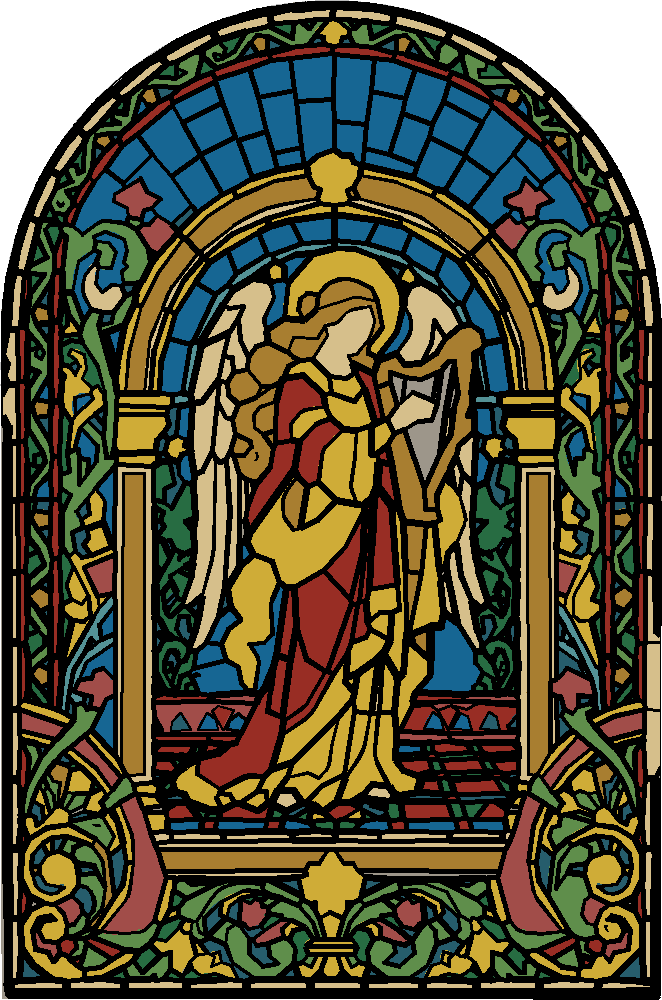
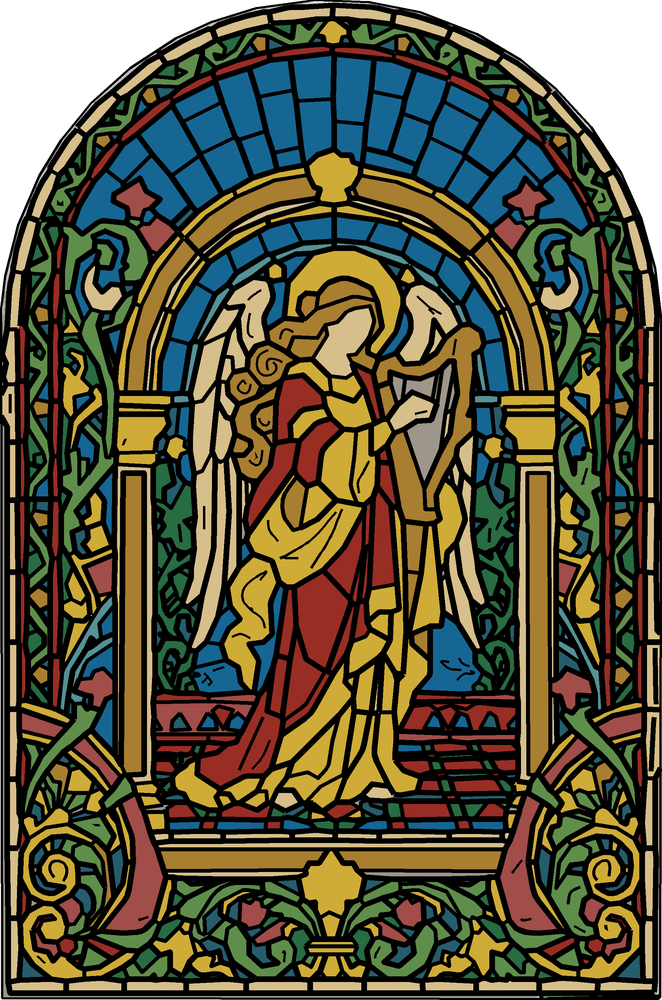
Anti-aliased preview, Chinese README (读我.md), refresh sample previews
- write_preview_png now rasterizes the fragment + leading SVGs at 3x
  supersample and LANCZOS-downscales, so pane/leading edges are smooth.
- Add 读我.md (Simplified Chinese translation) with language switcher.
- Regenerate docs/ preview images with the anti-aliased renderer.

diff --git a/png_to_stained_glass_svg.py b/png_to_stained_glass_svg.py
@@ -28,12 +28,13 @@ Usage:
 import argparse
 import glob
 import os
+import re
 import sys
 
 # --- Third-party dependencies (guarded for a clear error message) ----------
 try:
     import numpy as np
-    from PIL import Image
+    from PIL import Image, ImageDraw
     import cv2
     from scipy import ndimage
     from scipy.cluster.vq import kmeans2
@@ -2222,20 +2223,110 @@ def rasterize_fitted_leading(polys, shape, simplify_tol, fit_tol):
     return mask > 0
 
 
-def write_preview_png(frag_rgb, labels, lead_polys, path):
-    """Write a 'what-you-print' preview: glass panes with black leading on top.
+def _parse_svg_subpaths(d):
+    """Parse an SVG path 'd' into subpaths as point lists, flattening cubics."""
+    toks = re.findall(r"[MLCZmlcz]|-?\d+\.?\d*(?:e-?\d+)?", d)
+    i, cur, start, subs, pts = 0, None, None, [], []
 
-    Uses the vectorised leading polygons (matching the leading SVG) so the
-    preview faithfully shows the final result once the black is added.
+    def flush():
+        if len(pts) >= 2:
+            subs.append(list(pts))
+        pts.clear()
+
+    while i < len(toks):
+        t = toks[i]
+        if t in "Mm":
+            flush()
+            cur = (float(toks[i + 1]), float(toks[i + 2])); i += 3
+            start = cur; pts.append(cur)
+        elif t in "Ll":
+            cur = (float(toks[i + 1]), float(toks[i + 2])); i += 3
+            pts.append(cur)
+        elif t in "Cc":
+            p0 = cur
+            c1 = (float(toks[i + 1]), float(toks[i + 2]))
+            c2 = (float(toks[i + 3]), float(toks[i + 4]))
+            p3 = (float(toks[i + 5]), float(toks[i + 6])); i += 7
+            for k in range(1, 9):
+                u = k / 8.0; v = 1 - u
+                pts.append((
+                    v**3 * p0[0] + 3*v*v*u*c1[0] + 3*v*u*u*c2[0] + u**3*p3[0],
+                    v**3 * p0[1] + 3*v*v*u*c1[1] + 3*v*u*u*c2[1] + u**3*p3[1]))
+            cur = p3
+        elif t in "Zz":
+            if start:
+                pts.append(start)
+            i += 1
+        else:
+            i += 1
+    flush()
+    return subs
+
+
+def write_preview_png(frag_svg, lead_svg, px_mm, path, ss=3):
+    """Anti-aliased 'what-you-print' preview.
+
+    Rasterizes the FRAGMENT and LEADING SVGs (the actual vector output) at
+    ``ss``x supersample and box-downscales with LANCZOS, so pane and leading
+    edges are smooth -- matching what a system SVG renderer shows, instead of
+    the hard pixel edges of a label-map render.
     """
-    h, w = labels.shape
-    rgb = frag_rgb.copy()
-    if lead_polys:
-        rgb[rasterize_polys(lead_polys, (h, w))] = (0, 0, 0)
-    out = np.zeros((h, w, 4), dtype=np.uint8)
-    out[:, :, :3] = rgb
-    out[:, :, 3] = np.where(labels > 0, 255, 0).astype(np.uint8)
-    Image.fromarray(out, mode="RGBA").save(path)
+    def attr(tag, name):
+        m = re.search(r'%s="([^"]*)"' % name, tag)
+        return m.group(1) if m else None
+
+    def hexrgb(s):
+        s = s.lstrip("#")
+        return (int(s[0:2], 16), int(s[2:4], 16), int(s[4:6], 16))
+
+    m = re.search(r'viewBox="0 0 ([\d.]+) ([\d.]+)"', frag_svg)
+    w_mm, h_mm = float(m.group(1)), float(m.group(2))
+    s = ss / px_mm                                    # mm -> supersampled px
+    W, H = max(1, int(round(w_mm * s))), max(1, int(round(h_mm * s)))
+    img = Image.new("RGBA", (W, H), (0, 0, 0, 0))
+    drw = ImageDraw.Draw(img)
+
+    def sc(sub):
+        return [(x * s, y * s) for x, y in sub]
+
+    # 1) glass faces (skip the corner registration squares = black fills).
+    for tag in re.findall(r"<path\b[^>]*>", frag_svg):
+        fill = attr(tag, "fill")
+        d = attr(tag, "d")
+        if not d or not fill or fill in ("none", "#000000"):
+            continue
+        col = hexrgb(fill) + (255,)
+        for sub in _parse_svg_subpaths(d):
+            poly = sc(sub)
+            if len(poly) >= 3:
+                drw.polygon(poly, fill=col)
+
+    # 2) black leading on top (strokes at their width; filled blobs; skip the
+    #    tiny <=1.3mm registration squares).
+    for tag in re.findall(r"<path\b[^>]*>", lead_svg):
+        d = attr(tag, "d")
+        if not d:
+            continue
+        subs = _parse_svg_subpaths(d)
+        sw = attr(tag, "stroke-width")
+        if sw:
+            wpx = max(1, int(round(float(sw) * s)))
+            for sub in subs:
+                poly = sc(sub)
+                if len(poly) >= 2:
+                    drw.line(poly, fill=(0, 0, 0, 255), width=wpx,
+                             joint="curve")
+        elif (attr(tag, "fill") or "") == "#000000":
+            xs = [x for sub in subs for x, y in sub]
+            ys = [y for sub in subs for x, y in sub]
+            if xs and (max(xs) - min(xs) <= 1.3 and max(ys) - min(ys) <= 1.3):
+                continue                              # registration mark
+            for sub in subs:
+                poly = sc(sub)
+                if len(poly) >= 3:
+                    drw.polygon(poly, fill=(0, 0, 0, 255))
+
+    img.resize((max(1, W // ss), max(1, H // ss)), Image.LANCZOS).save(path)
 
 
 # ===========================================================================
@@ -2685,8 +2776,9 @@ def main(args=None):
         frag_svg_path = opts.fragments_svg or _in_dir("_fragments.svg")
         colored = fragments_to_colored_paths(frag_rgb, labels, arcs, clip_poly,
                                              opts.px_mm)
+        frag_svg = write_multicolor_svg(colored, width_mm, height_mm)
         with open(frag_svg_path, "w") as f:
-            f.write(write_multicolor_svg(colored, width_mm, height_mm))
+            f.write(frag_svg)
         log("wrote %s (%d vector panes)" % (frag_svg_path, len(colored)))
 
         # Per-colour fragment SVGs: one file per glass colour (the 3D-printer
@@ -2708,7 +2800,7 @@ def main(args=None):
 
         if opts.preview:
             prev_path = opts.preview_png or _in_dir("_preview.png")
-            write_preview_png(frag_rgb, labels, lead_polys, prev_path)
+            write_preview_png(frag_svg, lead_svg, opts.px_mm, prev_path)
             log("wrote %s" % prev_path)
 
     except AbortError as exc:

diff --git a/读我.md b/读我.md
@@ -1,0 +1,216 @@
+# PNG → 彩色玻璃 SVG
+
+[English](README.md) | **简体中文**
+
+将栅格图像（PNG 或 JPEG）转换为可直接打印的矢量文件，用于 **3D 打印彩色玻璃（教堂花窗）**
+的工作流：包含轮廓、黑色铅条（came）线，以及平涂着色的玻璃碎片——每种玻璃颜色一个文件，
+外加一个黑色铅条图层。
+
+输出刻意采用 **每块玻璃平涂着色**（无渐变）：熔丝 3D 打印机无法还原照片级细节，
+因此图像被分割成由黑色铅条勾边的纯色玻璃块，正如真实的彩色玻璃一样。
+
+## 示例
+
+由 `python3 png_to_stained_glass_svg.py <输入>.png --preview` 生成。
+点击图片可查看原始分辨率。
+
+### 示例 1
+
+<p align="center">
+  <img src="sample1.png" width="400" hspace="16">
+  <img src="docs/sample1_result.png" width="400" hspace="16">
+</p>
+
+### 示例 2
+
+<p align="center">
+  <img src="sample2.png" width="400" hspace="16">
+  <img src="docs/sample2_result.png" width="400" hspace="16">
+</p>
+
+---
+
+## 输出内容
+
+所有文件都会放进一个文件夹 `<输入>_fragments/`（可用 `--fragments-dir` 覆盖）：
+
+| 文件 | 说明 |
+|------|------|
+| `<名称>_silhouette.svg` | 作品的外轮廓（含内部孔洞），单条奇偶填充路径。 |
+| `<名称>_leading.svg`    | 黑色铅条线——按真实毫米宽度描边。作为 **黑色图层** 打印。 |
+| `<名称>_fragments.svg`  | 所有玻璃块合成的一个多色 SVG（精确平面剖分）。 |
+| `color_NN_<hex>.svg`    | **每种玻璃颜色一个 SVG**——各自是一个打印图层。 |
+| `<名称>_fragments.png`  | 彩色玻璃块的栅格预览。 |
+| `<名称>_preview.png`    | 可选的合成预览（`--preview`）。 |
+
+每个 SVG 都带有 **物理毫米单位** 和四个角上的 **对齐标记（registration marks）**，
+这样当导入切片/打印软件时，所有颜色图层和铅条图层都能对齐
+（这类软件通常按可见内容裁剪，并忽略 SVG 页面尺寸和填充颜色——所以才需要标记和每色一个文件）。
+
+---
+
+## 设计理念
+
+- 默认 **1 像素 = 0.4 毫米**（典型喷嘴直径）。打印尺寸最长边限制在 250 毫米以内。
+- **在原始分辨率上提取，仅对矢量进行缩小** 以适配打印床。先缩小 *栅格* 会打断细黑线，
+  因此几何以全精度提取，再缩放得到的矢量——细线保持连续。
+- **玻璃碎片是精确的平面剖分**（0 缝隙、0 重叠）：通过一次性追踪区域间共享的像素裂缝
+  并重新拟合来构建玻璃块，相邻块共享完全相同的边。重叠无法打印（哪种颜色胜出？），
+  缝隙则会留下空洞。
+- **铅条与碎片来自同一套几何**，因此黑色铅条精确地压在玻璃块的接缝上。
+- **3D 打印软件忽略 SVG 填充颜色**，所以每种颜色都输出为独立文件
+  （= 独立打印图层 / 换料）。
+
+---
+
+## 安装
+
+需要 Python 3.9+ 及若干科学计算库：
+
+```bash
+pip install pillow numpy scipy scikit-image opencv-python shapely
+```
+
+---
+
+## 用法
+
+```bash
+python3 png_to_stained_glass_svg.py input.png [选项]
+```
+
+### 示例
+
+基础用法（12 种颜色，自动分级铅条）：
+
+```bash
+python3 png_to_stained_glass_svg.py portrait.png
+```
+
+带深色衣物的人物，4 种颜色，精确铅条宽度，更平滑的曲线：
+
+```bash
+python3 png_to_stained_glass_svg.py figure.png \
+    --num-colors 4 \
+    --tier-thin 0.4 --tier-bold 0.8 \
+    --black-block-mm 3 \
+    --smooth-curves
+```
+
+调节黑色如何拆分为细 *铅条* 与纯黑 *玻璃*：
+
+```bash
+# 调低 --black-block-mm，使较厚的区域（例如衣袖）成为一整块黑色玻璃、
+# 由粗铅条勾边，而不是一堆细铅条线。
+python3 png_to_stained_glass_svg.py photo.jpg --black-block-mm 3
+```
+
+---
+
+## 工作原理（流程）
+
+1. **轮廓** —— 非透明像素 → 外轮廓 + 孔洞 → 一个干净的多边形（`clip_poly`），
+   在各处复用，使所有轮廓对齐。
+2. **黑色拆分** —— 黑色像素被拆分为细 **铅条线** 和厚 **块**。厚块（深色衣物、边框）
+   会成为由粗 **铅条** 勾边的 **黑色玻璃块**，而不是一堆细线。
+3. **颜色量化** —— 按面积加权的 k-means 聚成 `--num-colors` 组；
+   彼此紧邻、之间无黑色分隔且颜色几乎相同的块会被合并。
+4. **剖分** —— 标签图的像素裂缝被追踪成弧段，平滑一次，再用 `shapely.polygonize`
+   重建为面 → 精确的共享边玻璃块。
+5. **铅条** —— 带铅条的弧段被连接成连续的线（使被交叉打断的曲线保持一致的宽度），
+   分级为 **细 / 粗** 两档并描边。一圈周边 **铅条** 为整幅作品勾边。
+6. **输出** —— 所有 SVG + PNG（含对齐标记）写入输出文件夹。
+
+---
+
+## 选项
+
+### 尺寸与输入输出
+
+| 选项 | 默认 | 说明 |
+|------|------|------|
+| `--fragments-dir DIR` | `<输入>_fragments/` | 所有文件的输出文件夹。 |
+| `--px-mm MM` | `0.4` | 单个输入像素的物理尺寸（喷嘴宽度）。 |
+| `--max-size-mm MM` | `250` | 将最长边限制到此值；矢量缩放以适配。 |
+| `--autocrop` / `--no-autocrop` | 开 | 定尺前裁掉透明边。 |
+| `--preview` | 关 | 额外输出一张合成预览 PNG。 |
+| `--silhouette-fill none\|black` | `none` | 轮廓为描边或实心。 |
+| `--reg-mark-size MM` | `1.0` | 角上对齐标记的尺寸。 |
+
+### 颜色与碎片
+
+| 选项 | 默认 | 说明 |
+|------|------|------|
+| `--num-colors N` | `12` | 玻璃颜色数（k-means 组数）。硬上限 24。 |
+| `--fragment-color original\|quantized` | `quantized` | 保留原色或量化。 |
+| `--segment-mode color\|leading` | `color` | 按颜色+铅条分块，或仅按铅条分块。 |
+| `--min-fragment-area PX` | `32` | 小于此面积的块并入相邻块。 |
+| `--color-merge-tol N` | `110` | 合并相邻的相近色块（RGB 距离；0 = 关闭）。 |
+| `--lum-threshold N` | `90` | 当 R、G、B 都低于此值时该像素判为“黑/铅条”。 |
+| `--alpha-min N` | `128` | 大于等于此 alpha 才算不透明像素。 |
+
+### 铅条宽度
+
+| 选项 | 默认 | 说明 |
+|------|------|------|
+| `--line-width tier\|auto\|MM` | `tier` | `tier` = 两档宽度（粗轮廓 vs 细分隔线）；`auto` = 每条线各自实测宽度；数字 = 固定毫米。 |
+| `--tier-thin MM` | 自动 | 强制 **细** 档的精确宽度（0 = 从像素自动）。 |
+| `--tier-bold MM` | 自动 | 强制 **粗** 档的精确宽度（0 = 自动）。 |
+| `--line-width-scale F` | `1.0` | 将所有实测宽度乘以此系数。 |
+| `--min-line-width PX` | `1.5` | 铅条宽度下限（1.5 px ≈ 0.6 mm）。 |
+| `--perimeter-came` / `--no-perimeter-came` | 开 | 为整幅作品加一圈周边铅条。 |
+
+### 线段连接与平滑
+
+| 选项 | 默认 | 说明 |
+|------|------|------|
+| `--link-angle DEG` | `35` | 在交点处，仅当两弧段切线方向偏离直线小于此角度时才连成一条连续线（角度越大越算作拐角，链条在此断开）。 |
+| `--link-width-ratio R` | `1.7` | 将两弧段视为同一条线的最大宽度比。 |
+| `--smooth-curves` | 关 | 将铅条输出为平滑贝塞尔曲线（并圆滑连接处的接点）。适合稀疏、曲线多的图案；密集线稿下默认折线通常更清晰。 |
+
+### 黑色块（纯黑玻璃）
+
+| 选项 | 默认 | 说明 |
+|------|------|------|
+| `--black-block-mm MM` | `3.0` | 厚于此值的黑色区域成为 **黑色玻璃块**（由粗铅条勾边），而非铅条。`0` 关闭。 |
+| `--min-black-area PX` | `2` | 丢弃小于此面积的黑色杂点。 |
+
+### 几何容差
+
+| 选项 | 默认 | 说明 |
+|------|------|------|
+| `--fit-tolerance PX` | `0.4` | 贝塞尔拟合容差。 |
+| `--simplify-tolerance PX` | `0.3` | 轮廓预简化。 |
+| `--smooth-tolerance PX` | `1.2` | 环平滑。 |
+| `--connectivity 4\|8` | `8` | 连通分量的像素连通性。 |
+
+运行 `python3 png_to_stained_glass_svg.py --help` 查看完整选项列表。
+
+---
+
+## 调参建议
+
+- **本应粗却显得细的线** —— 如果一条粗轮廓环绕着某个深色区域（衣袖、衣物），
+  调低 `--black-block-mm` 直到该区域被识别为一整块：它的轮廓便会画成粗铅条，而不是细接缝。
+- **锯齿 / 折面曲线** —— 弧段 *连接* 已让长线获得一致宽度；只有稀疏、曲线很多的图案
+  才需要 `--smooth-curves`。密集线稿下默认折线通常更好看。
+- **精确铅条宽度** —— 使用 `--line-width tier` 配合以毫米为单位的 `--tier-thin` / `--tier-bold`。
+- **缺失 / 重复的分隔线** —— 调节 `--color-merge-tol`（合并几乎相同的色带）
+  和 `--min-fragment-area`（去除碎条）。
+- **颜色太多 / 太少** —— `--num-colors`（上限 24）。颜色越少，换料越少。
+
+---
+
+## 打印说明
+
+- 将 **`color_NN_*.svg`** 各文件作为独立的彩色图层打印，
+  **`<名称>_leading.svg`** 作为最上层的黑色图层打印。
+- 每个图层都保留角上的 **对齐标记**——它们是导入时各图层对齐的依据。
+- 黑色铅条是独立图层，因此黑色 **不** 占用颜色名额
+  （真正的黑色 *玻璃* 块除外）。
+
+---
+
+## 许可证
+
+[GNU 通用公共许可证 v3.0（GPLv3）](LICENSE)。

diff --git a/README.md b/README.md
@@ -1,5 +1,7 @@
 # PNG → Stained-Glass SVG
 
+**English** | [简体中文](读我.md)
+
 Convert a raster image (PNG or JPEG) into print-ready vector artifacts for a
 **3D-printed stained-glass** pipeline: a silhouette, black leading (came) lines,
 and flat-shaded glass fragments — one file per glass color, plus a black leading
@@ -98,7 +100,7 @@ python3 png_to_stained_glass_svg.py portrait.png
 A figure with a dark garment, 4 colors, exact came widths, smoother curves:
 
 ```bash
-python3 png_to_stained_glass_svg.py miku.jpg \
+python3 png_to_stained_glass_svg.py figure.png \
     --num-colors 4 \
     --tier-thin 0.4 --tier-bold 0.8 \
     --black-block-mm 3 \